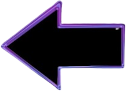
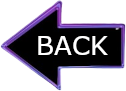
ustawienie grafik w odpowiednich miejscach

Changed region(s): [[0.2857, 0.3956, 0.8571, 0.6154]]

diff --git a/DanteBlackjack/Lobby_Screen.py b/DanteBlackjack/Lobby_Screen.py
@@ -27,14 +27,16 @@ class Lobby_Screen(Screen):
         window.blit(background, (0, 0))
 
         lobby_to_Menu_button.tool_draw(window)
-        lobby_add_table.tool_draw(window)
+
+
+        # lobby_add_table.tool_draw(window)
 
         lobby_blackspace = pygame.image.load("DanteBlackJack/Grafika/Obiekty/lobby_blackspace.png")
+        window.blit(lobby_blackspace, (498, 34))
 
-        text = pygame.font.Font("DanteBlackJack/Grafika/Czcionki/Aptos.ttf", 10).render("Choose table to play", True,
+        text_lobby_blackspace = pygame.font.Font("DanteBlackJack/Grafika/Czcionki/Aptos.ttf", 36).render("Choose table to play", True,
     (242, 120, 27))  # Renderowanie tekstu
-        window.blit(text, (100, 100))  # Wyświetlenie tekstu
+        window.blit(text_lobby_blackspace, (574, 50))  # Wyświetlenie tekstu
 
-        window.blit(lobby_blackspace, (300, 200))
 
         pygame.display.update()
